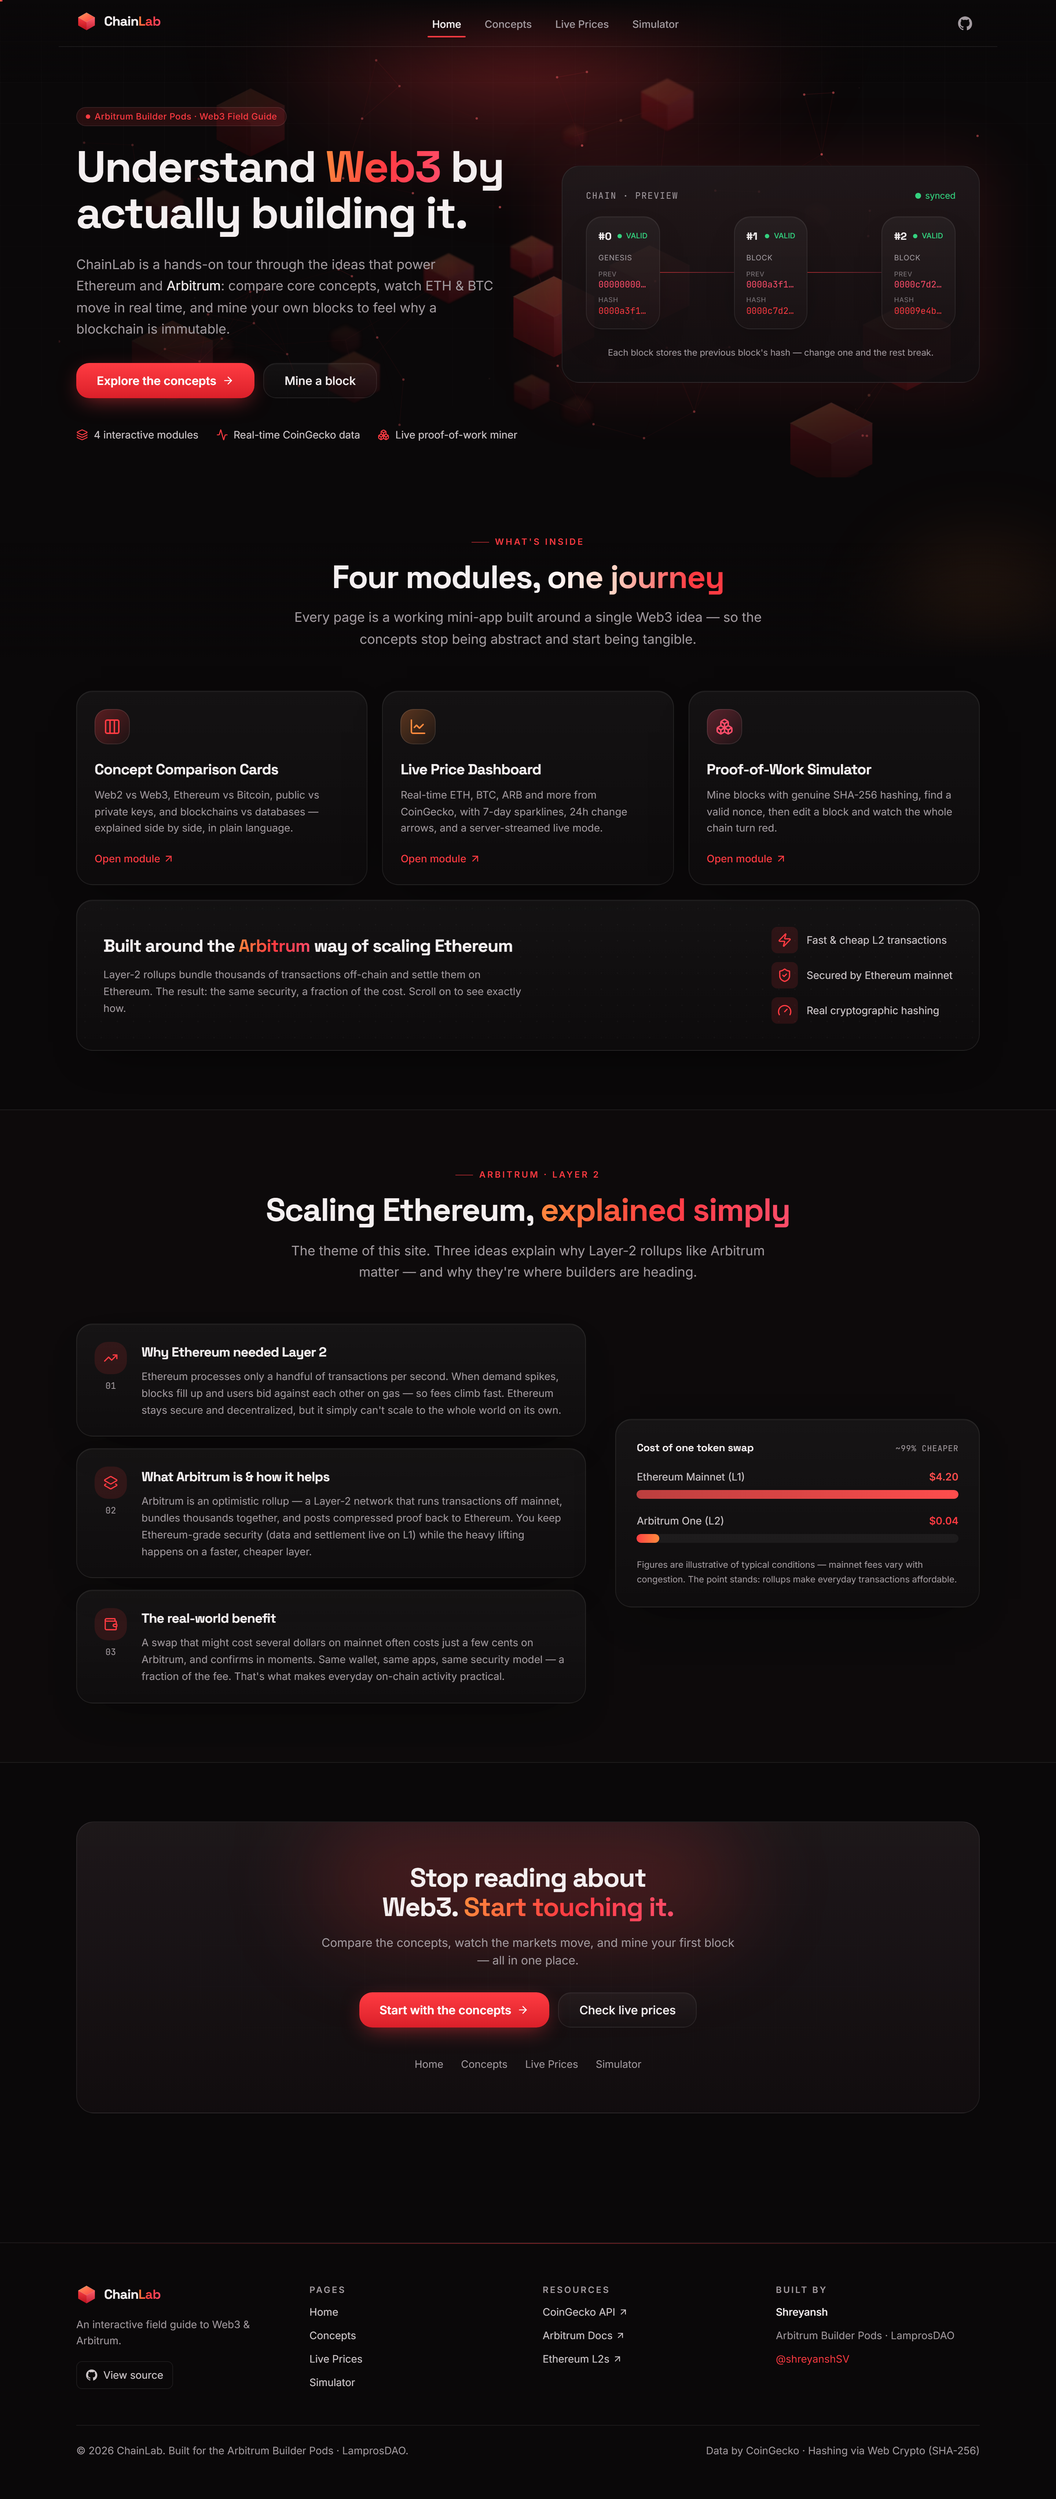
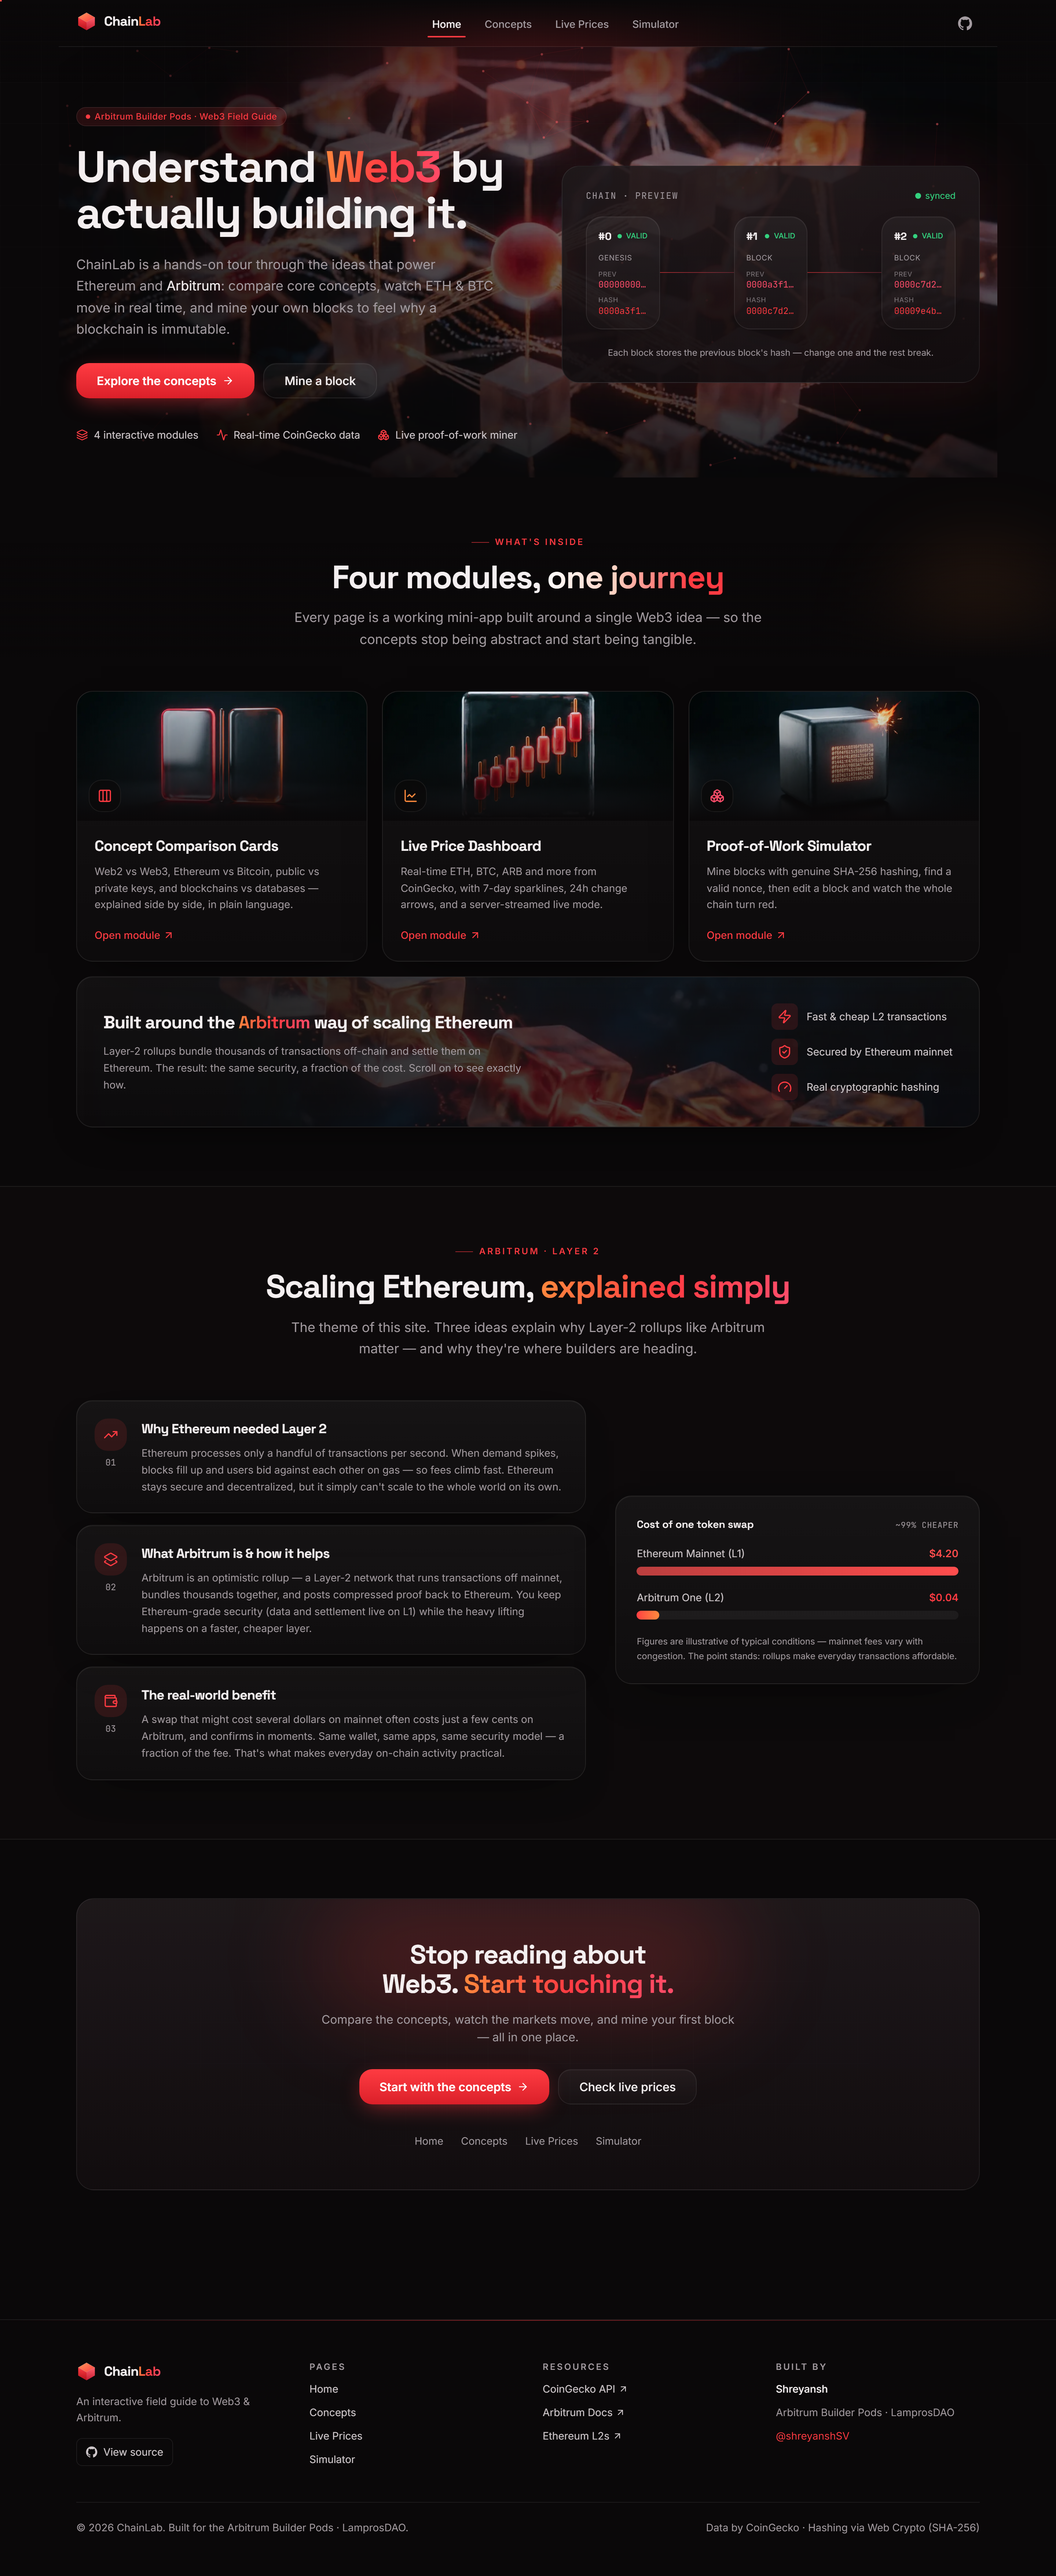
Integrate generated blockchain imagery across hero, feature cards, and page backdrops; add particle-network hero

diff --git a/components/home/Features.tsx b/components/home/Features.tsx
@@ -1,4 +1,5 @@
 import Link from "next/link";
+import Image from "next/image";
 import {
   Columns3,
   LineChart,
@@ -16,25 +17,25 @@ const features = [
   {
     href: "/concepts",
     icon: Columns3,
+    image: "/generated/concepts.png",
     title: "Concept Comparison Cards",
     desc: "Web2 vs Web3, Ethereum vs Bitcoin, public vs private keys, and blockchains vs databases — explained side by side, in plain language.",
-    accent: "from-primary/30 to-primary/5",
     iconColor: "text-primary",
   },
   {
     href: "/prices",
     icon: LineChart,
+    image: "/generated/prices.png",
     title: "Live Price Dashboard",
     desc: "Real-time ETH, BTC, ARB and more from CoinGecko, with 7-day sparklines, 24h change arrows, and a server-streamed live mode.",
-    accent: "from-accent-cyan/30 to-accent-cyan/5",
     iconColor: "text-accent-cyan",
   },
   {
     href: "/simulator",
     icon: Boxes,
+    image: "/generated/simulator.png",
     title: "Proof-of-Work Simulator",
     desc: "Mine blocks with genuine SHA-256 hashing, find a valid nonce, then edit a block and watch the whole chain turn red.",
-    accent: "from-accent-violet/30 to-accent-violet/5",
     iconColor: "text-accent-violet",
   },
 ];
@@ -65,35 +66,52 @@ export function Features() {
             <Reveal key={feature.href} delay={i * 0.08}>
               <Link
                 href={feature.href}
-                className="group glass lift block h-full rounded-2xl p-6"
+                className="group glass lift block h-full overflow-hidden rounded-2xl"
               >
-                <div
-                  className={cn(
-                    "mb-5 inline-flex h-12 w-12 items-center justify-center rounded-xl bg-gradient-to-br ring-1 ring-inset ring-white/10",
-                    feature.accent,
-                  )}
-                >
-                  <Icon className={cn("h-6 w-6", feature.iconColor)} />
+                {/* thematic image topper */}
+                <div className="relative h-44 overflow-hidden">
+                  <Image
+                    src={feature.image}
+                    alt=""
+                    fill
+                    sizes="(max-width: 640px) 100vw, (max-width: 1024px) 50vw, 33vw"
+                    className="object-cover transition-transform duration-500 ease-out group-hover:scale-105"
+                  />
+                  {/* fade the image into the card body */}
+                  <div className="absolute inset-0 bg-gradient-to-t from-background via-background/40 to-transparent" />
+                  {/* icon chip over the image */}
+                  <div className="absolute bottom-3 left-4 inline-flex h-11 w-11 items-center justify-center rounded-xl border border-white/10 bg-background/70 backdrop-blur">
+                    <Icon className={cn("h-5 w-5", feature.iconColor)} />
+                  </div>
                 </div>
-                <h3 className="font-display text-xl font-bold tracking-tight">
-                  {feature.title}
-                </h3>
-                <p className="mt-2.5 text-sm leading-relaxed text-muted">
-                  {feature.desc}
-                </p>
-                <span className="mt-5 inline-flex items-center gap-1 text-sm font-medium text-primary transition-transform group-hover:translate-x-0.5">
-                  Open module
-                  <ArrowUpRight className="h-4 w-4" />
-                </span>
+
+                <div className="p-6 pt-5">
+                  <h3 className="font-display text-xl font-bold tracking-tight">
+                    {feature.title}
+                  </h3>
+                  <p className="mt-2.5 text-sm leading-relaxed text-muted">
+                    {feature.desc}
+                  </p>
+                  <span className="mt-5 inline-flex items-center gap-1 text-sm font-medium text-primary transition-transform group-hover:translate-x-0.5">
+                    Open module
+                    <ArrowUpRight className="h-4 w-4" />
+                  </span>
+                </div>
               </Link>
             </Reveal>
           );
         })}
 
-        {/* wide highlight card */}
+        {/* wide highlight card with the chain-cubes render */}
         <Reveal delay={0.1} className="sm:col-span-2 lg:col-span-3">
           <div className="glass relative overflow-hidden rounded-2xl p-7 sm:p-9">
-            <div className="bg-dots absolute inset-0 opacity-40" />
+            <Image
+              src="/generated/chain-cubes.png"
+              alt=""
+              fill
+              sizes="100vw"
+              className="object-cover object-right opacity-25 [mask-image:linear-gradient(to_right,transparent,black_55%)]"
+            />
             <div className="relative flex flex-col gap-6 lg:flex-row lg:items-center lg:justify-between">
               <div className="max-w-xl">
                 <h3 className="font-display text-2xl font-bold tracking-tight">

diff --git a/components/simulator/SimulatorClient.tsx b/components/simulator/SimulatorClient.tsx
@@ -1,6 +1,7 @@
 "use client";
 
 import { useCallback, useEffect, useMemo, useRef, useState } from "react";
+import Image from "next/image";
 import { motion, type Variants } from "motion/react";
 import { useReducedMotionSafe } from "@/components/ui/useReducedMotionSafe";
 import {
@@ -388,7 +389,21 @@ export function SimulatorClient() {
   /* ----- render --------------------------------------------------------- */
 
   return (
-    <div className="mx-auto max-w-7xl px-4 py-16 sm:px-6 sm:py-20">
+    <div className="relative mx-auto max-w-7xl px-4 py-16 sm:px-6 sm:py-20">
+      {/* thematic backdrop */}
+      <div
+        aria-hidden
+        className="pointer-events-none absolute right-0 top-0 h-72 w-[min(620px,85%)] opacity-20 [mask-image:radial-gradient(80%_80%_at_85%_18%,black,transparent_72%)]"
+      >
+        <Image
+          src="/generated/simulator.png"
+          alt=""
+          fill
+          sizes="(max-width: 1024px) 80vw, 620px"
+          className="object-cover"
+        />
+      </div>
+
       <SectionHeading
         eyebrow="Proof of Work · Live"
         align="left"

diff --git a/components/concepts/ConceptsPage.tsx b/components/concepts/ConceptsPage.tsx
@@ -1,4 +1,5 @@
 import Link from "next/link";
+import Image from "next/image";
 import { ArrowRight, BookOpen, Columns3, Lightbulb } from "lucide-react";
 import { SectionHeading } from "@/components/ui/SectionHeading";
 import { Reveal } from "@/components/ui/Reveal";
@@ -14,7 +15,21 @@ import { concepts, introStats } from "@/components/concepts/data";
  */
 export function ConceptsPage() {
   return (
-    <div className="mx-auto max-w-7xl px-4 py-16 sm:px-6 sm:py-20">
+    <div className="relative mx-auto max-w-7xl px-4 py-16 sm:px-6 sm:py-20">
+      {/* thematic backdrop */}
+      <div
+        aria-hidden
+        className="pointer-events-none absolute right-0 top-0 h-72 w-[min(620px,85%)] opacity-25 [mask-image:radial-gradient(80%_80%_at_85%_18%,black,transparent_72%)]"
+      >
+        <Image
+          src="/generated/concepts.png"
+          alt=""
+          fill
+          sizes="(max-width: 1024px) 80vw, 620px"
+          className="object-cover"
+        />
+      </div>
+
       {/* intro hero */}
       <SectionHeading
         eyebrow="The fundamentals"

diff --git a/components/prices/PricesClient.tsx b/components/prices/PricesClient.tsx
@@ -1,6 +1,7 @@
 "use client";
 
 import { useCallback, useEffect, useMemo, useRef, useState } from "react";
+import Image from "next/image";
 import {
   RefreshCw,
   Radio,
@@ -146,7 +147,21 @@ export function PricesClient() {
   }, [coins, query]);
 
   return (
-    <section className="mx-auto max-w-7xl px-4 py-16 sm:px-6 sm:py-20">
+    <section className="relative mx-auto max-w-7xl px-4 py-16 sm:px-6 sm:py-20">
+      {/* thematic backdrop */}
+      <div
+        aria-hidden
+        className="pointer-events-none absolute right-0 top-0 h-72 w-[min(620px,85%)] opacity-25 [mask-image:radial-gradient(80%_80%_at_85%_18%,black,transparent_72%)]"
+      >
+        <Image
+          src="/generated/prices.png"
+          alt=""
+          fill
+          sizes="(max-width: 1024px) 80vw, 620px"
+          className="object-cover"
+        />
+      </div>
+
       <SectionHeading
         align="left"
         eyebrow="Live Prices · CoinGecko"

diff --git a/components/home/Hero.tsx b/components/home/Hero.tsx
@@ -37,12 +37,12 @@ export function Hero() {
         className="pointer-events-none absolute inset-0 -z-10 overflow-hidden"
       >
         <Image
-          src="/blockchain-network.png"
+          src="/generated/hero-network.png"
           alt=""
           fill
           priority
           sizes="100vw"
-          className="object-cover object-right opacity-35 [mask-image:radial-gradient(130%_110%_at_78%_42%,black,transparent_72%)] sm:opacity-45"
+          className="object-cover object-right opacity-40 [mask-image:radial-gradient(130%_110%_at_80%_40%,black,transparent_70%)] sm:opacity-55"
         />
         <ParticleNetwork className="absolute inset-0 h-full w-full [mask-image:radial-gradient(120%_120%_at_70%_40%,black,transparent_78%)]" />
       </div>
